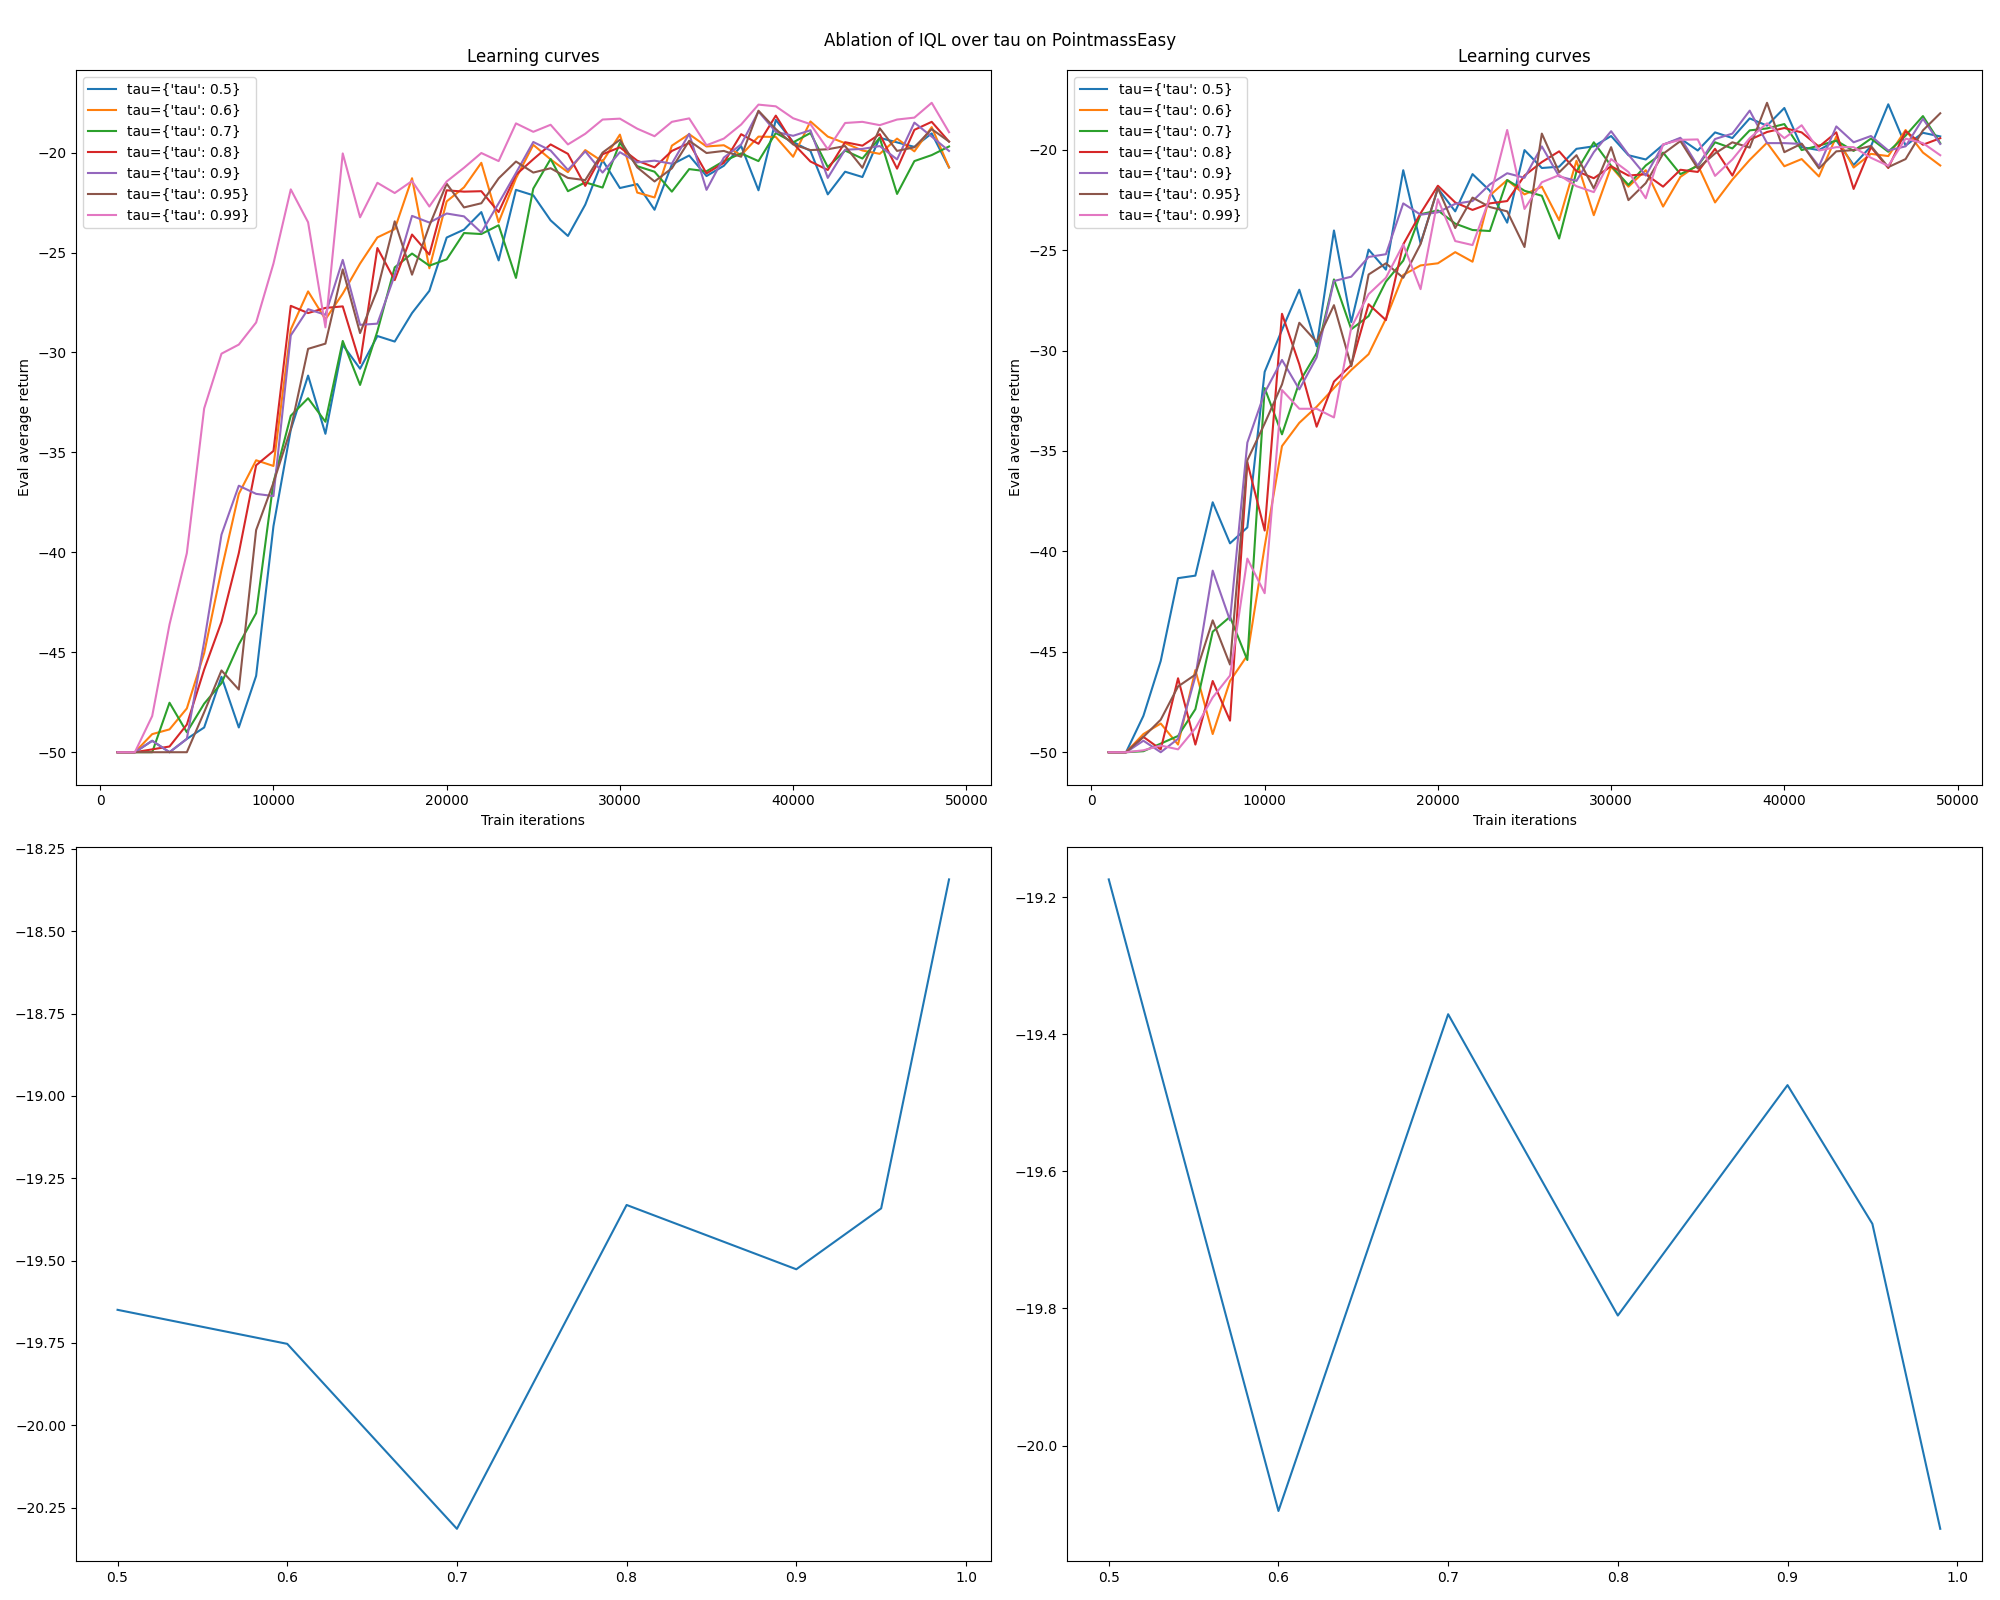
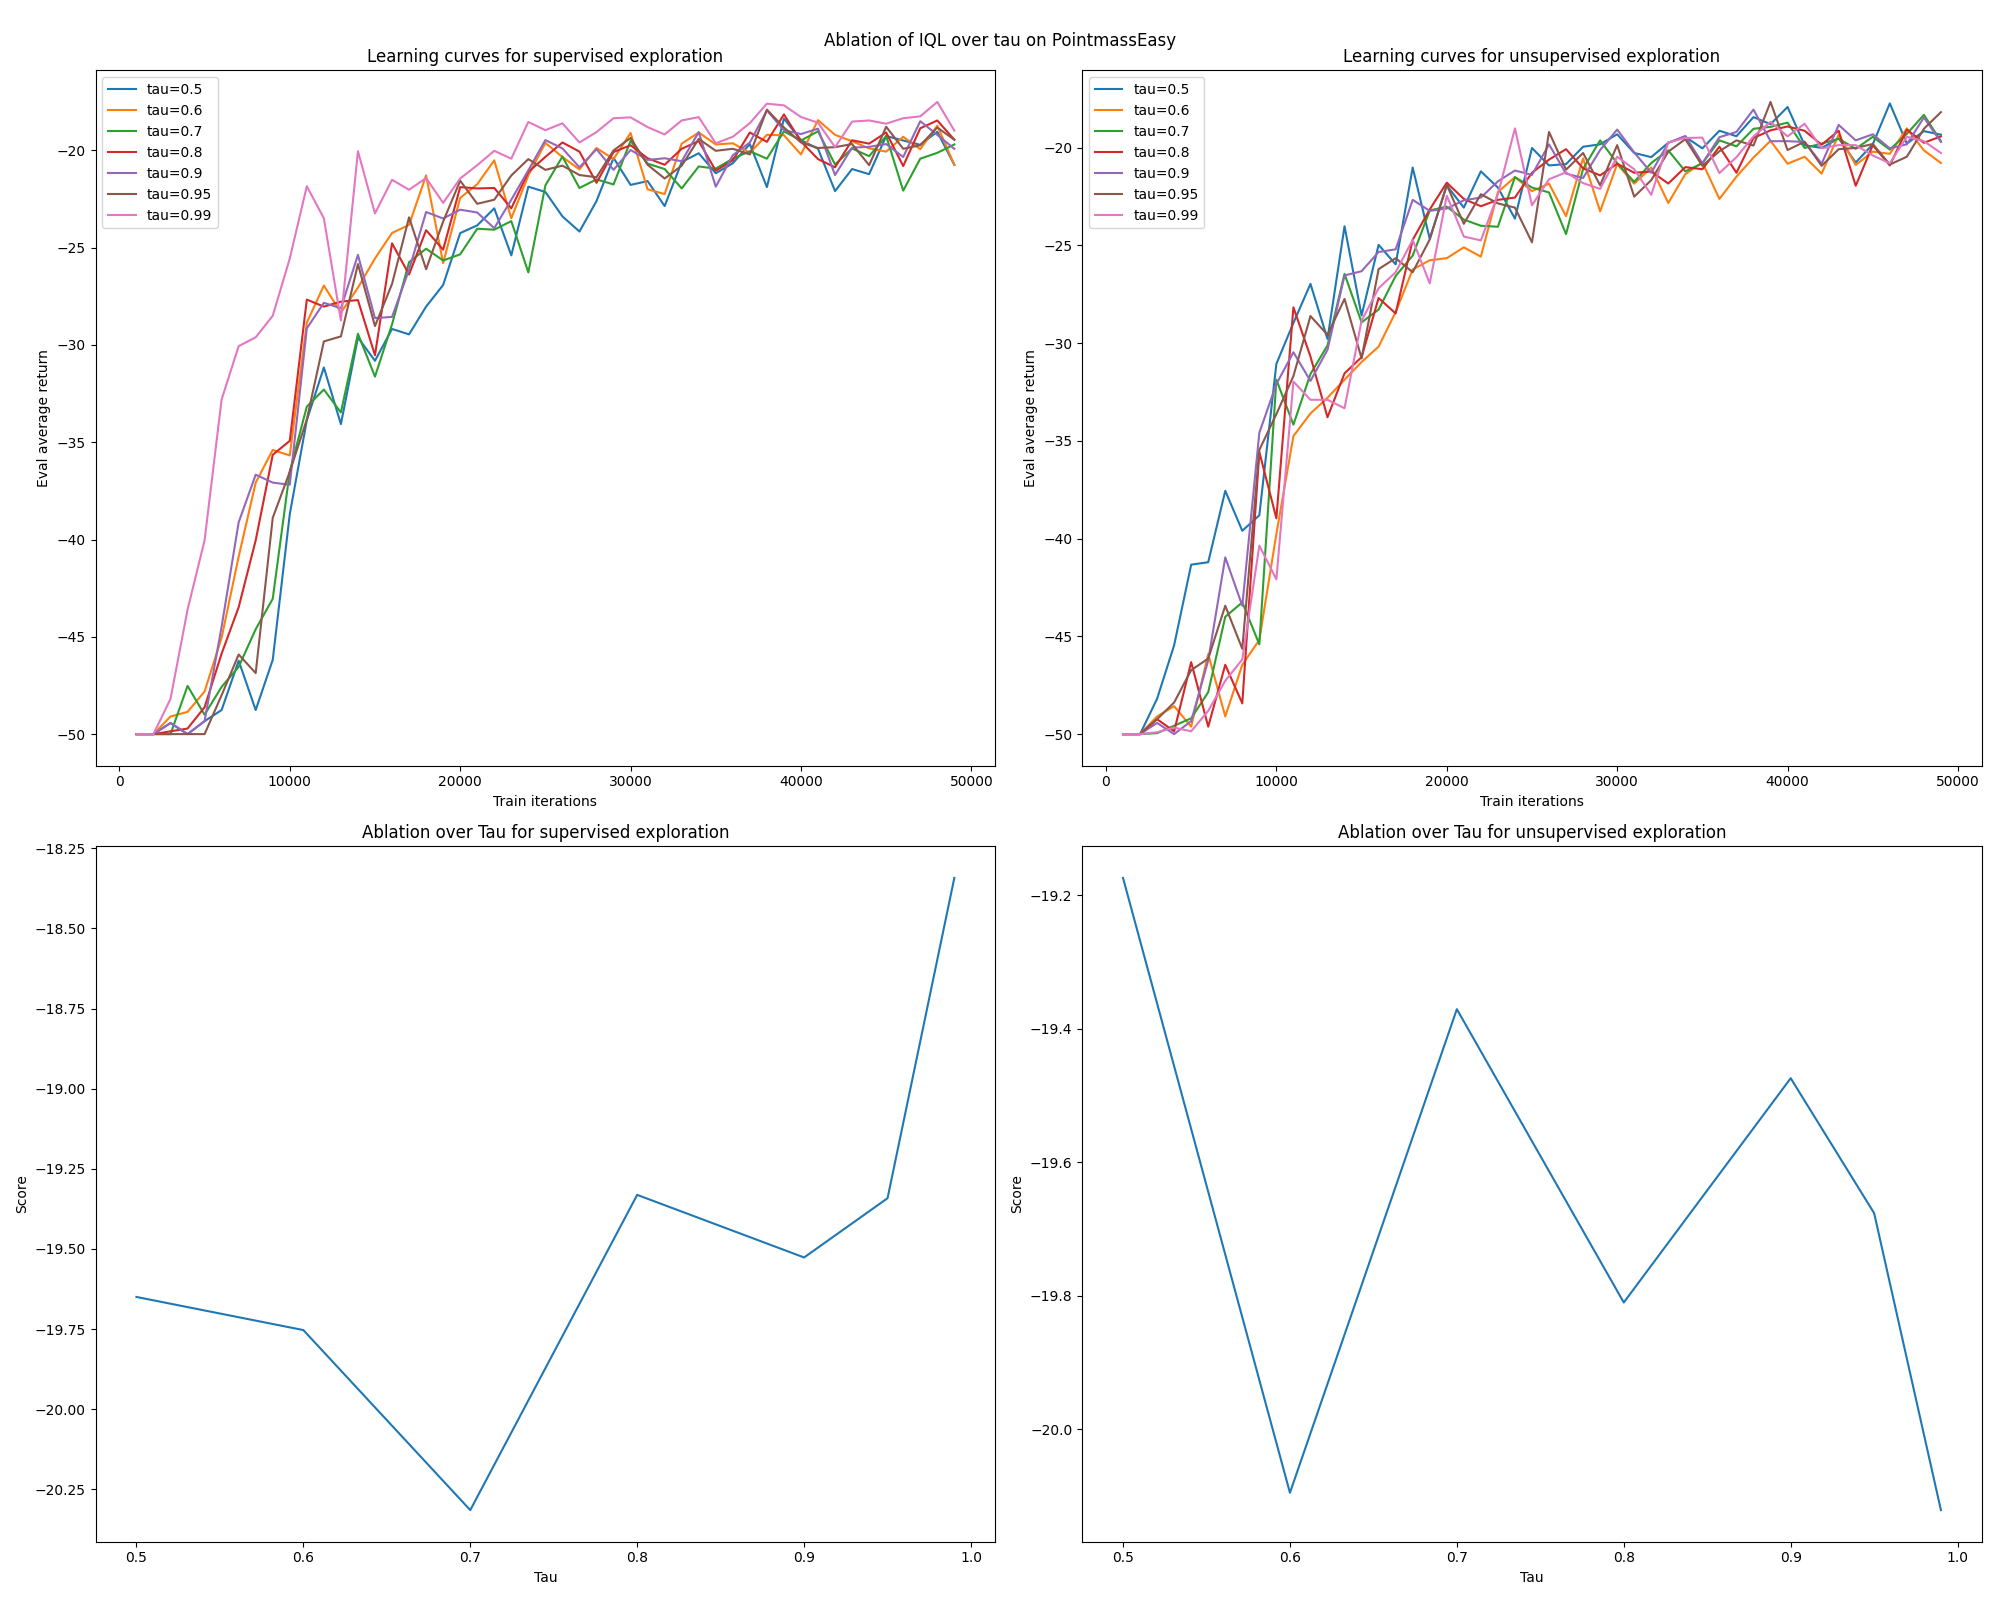
adding q3 and 5 to report

diff --git a/hw5/cs285/scripts/create_graphs.py b/hw5/cs285/scripts/create_graphs.py
@@ -214,6 +214,32 @@ def q2_3():
     fig.savefig("report_resources/q2_3.png")
 
 
+def q3():
+    envs = [
+        {"env_name": "PointmassMedium", "env_value": "medium"},
+        {"env_name": "PointmassHard", "env_value": "hard"},
+    ]
+    configs = ["dqn", "cql", "dqn_scaled", "cql_scaled"]
+    prefix_template = "hw5_expl_q3_{env_value}_{config}_{env_name}"
+
+    for env in envs:
+        rows, cols = 1, 1
+        fig, ax = plt.subplots(rows, cols, figsize=(10 * cols, 8 * rows))
+
+        for config in configs:
+            config_prefix = prefix_template.format(**env, **{"config": config})
+
+            logs = get_logs_with_return(config_prefix)
+            logs.plot(y="Eval_AverageReturn", ax=ax, label=config)
+
+        ax.set_xlabel("Train iterations")
+        ax.set_ylabel("Eval average return")
+
+        fig.suptitle(f"Learning curves for DQN vs CQL supervised exploration on {env['env_name']} environment")
+        fig.tight_layout()
+        fig.savefig(f"report_resources/q3_{env['env_name']}.png")
+
+
 def q4():
     envs = [("easy", "PointmassEasy-v0"), ("medium", "PointmassMedium-v0")]
     lams = ["0.1", "1", "2", "10", "20", "50"]
@@ -253,5 +279,47 @@ def q4():
         fig.savefig(f"report_resources/q4_{env_value}.png")
 
 
+def q5():
+    envs = [
+        {"env_name": "PointmassEasy", "env_value": "easy"},
+        {"env_name": "PointmassMedium", "env_value": "medium"},
+    ]
+    supervision_types = [
+        {"supervision_type": "supervised"},
+        {"supervision_type": "unsupervised"},
+    ]
+    taus = [0.5, 0.6, 0.7, 0.8, 0.9, 0.95, 0.99]
+    prefix_template = "hw5_expl_q5_{env_value}_{supervision_type}_lam1.0_tau{tau}_{env_name}"
+
+    for env in envs:
+        rows, cols = 2, 2
+        fig, axs = plt.subplots(rows, cols, figsize=(10 * cols, 8 * rows))
+
+        for supervision_axs, supervision_type in zip(axs.T, supervision_types):
+            learning_curve_ax, tau_ax = supervision_axs
+
+            tau_scores = []
+            for tau in taus:
+                config_prefix = prefix_template.format(**env, **supervision_type, **{"tau": tau})
+
+                logs = get_logs_with_return(config_prefix)
+                logs.plot(y="Eval_AverageReturn", ax=learning_curve_ax, label=f"tau={tau}")
+
+                tau_scores.append(logs["Eval_AverageReturn"][int(len(logs) * 0.9):].mean())
+
+            tau_ax.plot(taus, tau_scores)
+            tau_ax.set_title(f"Ablation over Tau for {supervision_type['supervision_type']} exploration")
+            tau_ax.set_xlabel("Tau")
+            tau_ax.set_ylabel("Score")
+
+            learning_curve_ax.set_title(f"Learning curves for {supervision_type['supervision_type']} exploration")
+            learning_curve_ax.set_xlabel("Train iterations")
+            learning_curve_ax.set_ylabel("Eval average return")
+
+        fig.suptitle(f"Ablation of IQL over tau on {env['env_name']}")
+        fig.tight_layout()
+        fig.savefig(f"report_resources/q5_{env['env_name']}.png")
+
+
 if __name__ == "__main__":
-    q1_2()
+    q3()

diff --git a/hw5/report.md b/hw5/report.md
@@ -76,6 +76,20 @@ The best value of alpha is 0.1.
 <div style="page-break-after: always;"></div>
 
 
+# Q3 Comparison of CQN and DQN on supervised exploration
+
+<div style="text-align: center">
+    <img src="report_resources/q3_PointmassMedium.png" width="500" height="400" />
+    <img src="report_resources/q3_PointmassHard.png" width="500" height="400" />
+</div>
+
+The scaled and shifted versions of these two algorithms did better on supervised exploration. This is because the supervision uses a combination of mixed rewards, so having rewards on similar scales actually allows comparison and usage of both. 
+
+The supervised version of DQN and CQL outperformed their unsupervised counterparts, both in stability of improvement and in performance. This is probably because the mixture of rewards acts as a prior on which states would be more efficient to continue exploring in. 
+
+
+<div style="page-break-after: always;"></div>
+
 # Q4 Ablation of AWAC over lambda
 
 <div style="text-align: center">
@@ -84,5 +98,28 @@ The best value of alpha is 0.1.
 </div>
 
 The best value of lambda is 1.0. As lambda decreases, there's more variance in the runs but also more modeling capacity. As lambda increases, there's more stability but less learning.
+
+<div style="page-break-after: always;"></div>
+
+
+# Q5 Ablation of IQL over tau
+
+<div style="text-align: center">
+    <img src="report_resources/q5_PointmassEasy.png" width="500" height="400" />
+    <img src="report_resources/q5_PointmassMedium.png" width="500" height="400" />
+</div>
+
+$$
+\begin{align*}
+\mathcal{L}_{V}(\phi) &= \mathbb{E}_{(s, a) ~ D} \left[ L_2^\tau(Q_\theta(s, a) - V_\phi(s) \right] \\
+L_2^\tau(\mu) &= |\tau - \mathbb{1}\{\mu \leq 0\}|\mu^2
+\end{align*}
+$$
+
+For the q-values of actions that **are not** better than the current value estimation of a state i.e. $Q_\theta(s, a) < V_\phi(s)$, as $\tau$ increases the penalty decreases. 
+
+For the q-values of actions that **are** better than the current value estimation of a state i.e. $Q_\theta(s, a) >= V_\phi(s)$, as $\tau$ increases the penalty increases. 
+
+Thus, $\tau$ controls how much the exploration model pays attention to q-values that are better or worse than expected. Typically, higher values of $\tau$ such as 0.9+ are better, signaling that it's more important that a model pays a lot of attention to q-values that are better than expected and pay less attention to q-values that are worse than expected.
 
 <div style="page-break-after: always;"></div>
